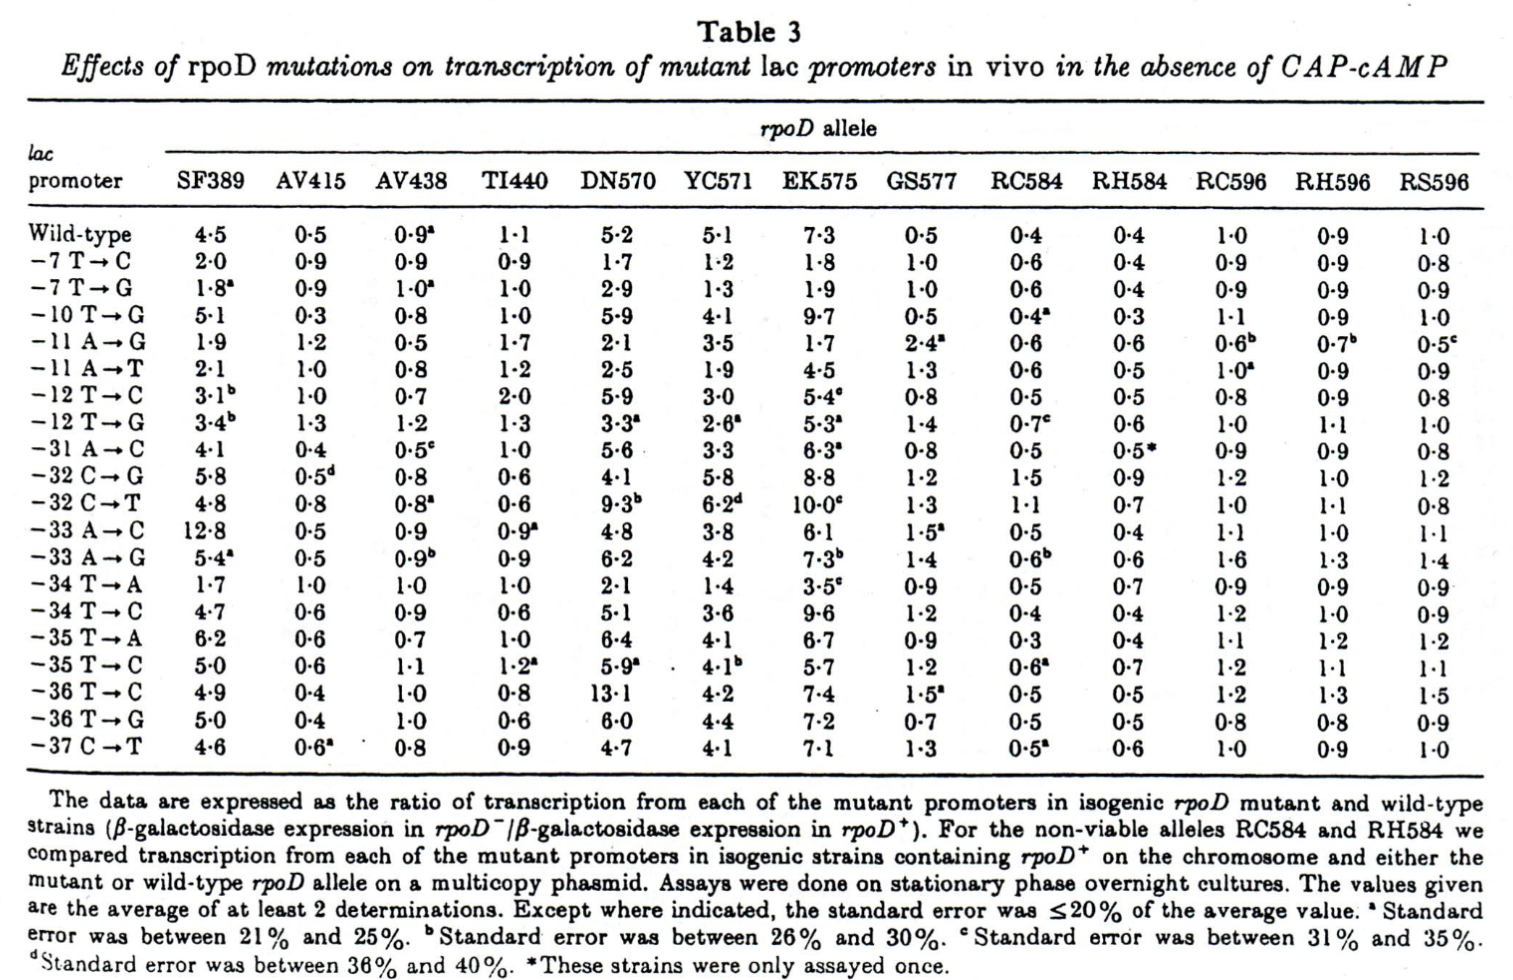
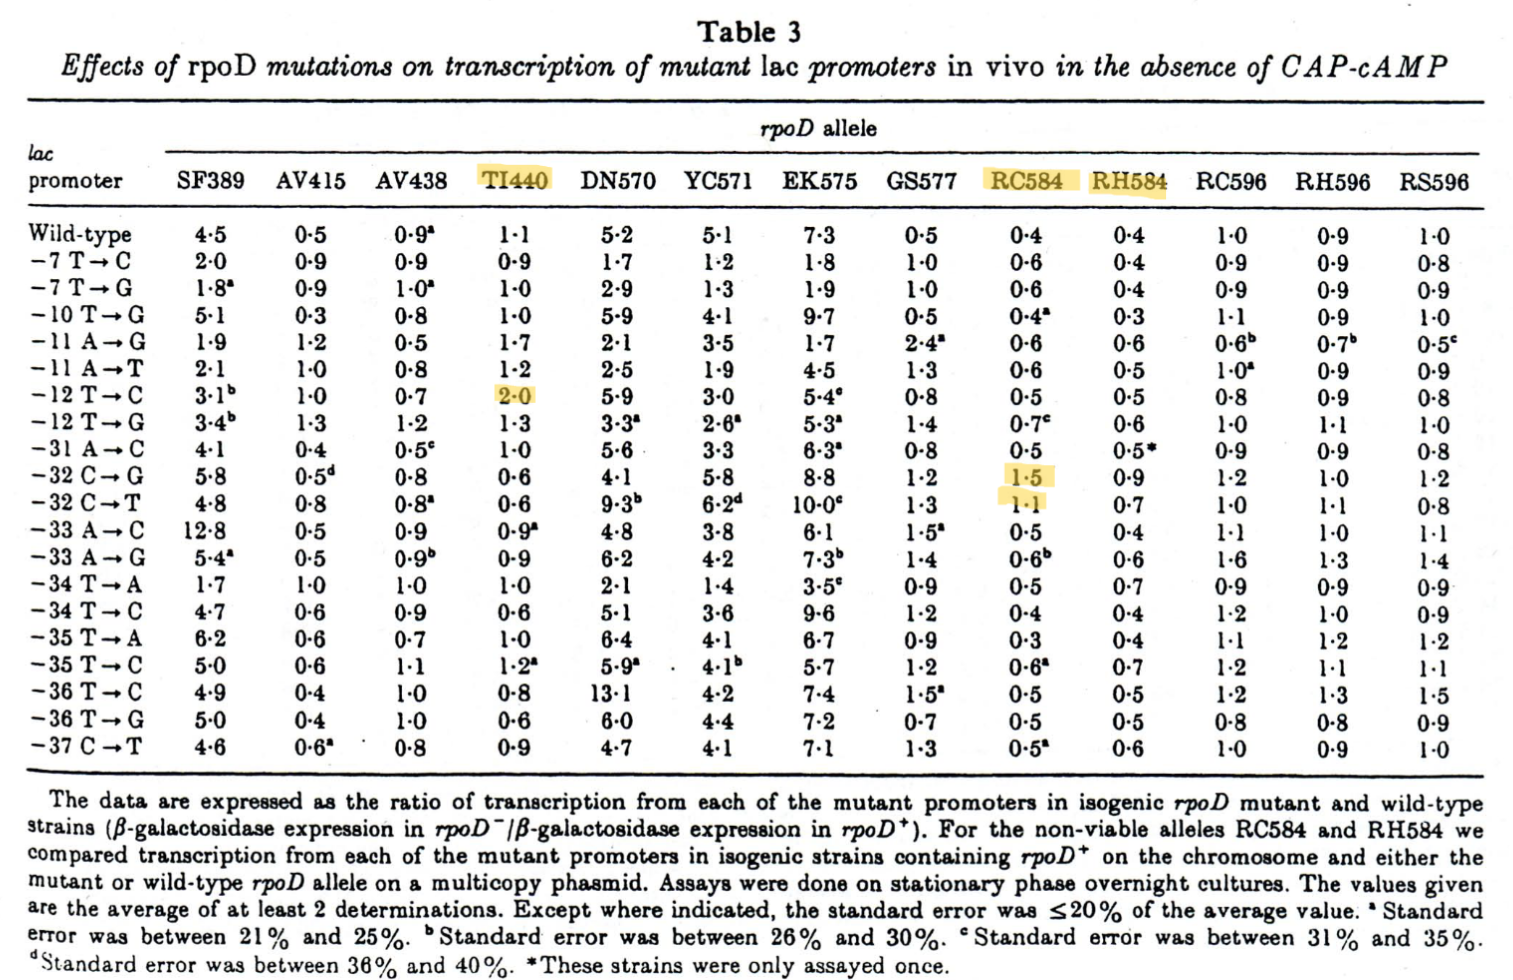
Auto saved by Logseq

diff --git a/pages/Altered promoter recognition by mutant forms of the sigma 70 subunit of Escherichia coli RNA polymerase.md b/pages/Altered promoter recognition by mutant forms of the sigma 70 subunit of Escherichia coli RNA polymerase.md
@@ -102,10 +102,16 @@ links:: [Local library](zotero://select/library/items/9G95AD5Q), [Web library](h
 	- All are ratios of mutant to wt (\beta\gal in rpoD- / \beta\gal in rpoD+)
 	- ![image.png](../assets/image_1759106691938_0.png){:height 490, :width 741}
 		- lac w/o cAMP
-		-
 	- ![image.png](../assets/image_1759106735549_0.png)
 		- lac w/ cAMP
 	- ![image.png](../assets/image_1759106753549_0.png)
 		- ant
-	-
+	- Mutations with little or no effect on promoter recognition
+		- AV438, RC596, RH596, RS596
+			- RH596 tom specifically calls out
+	- Mutations with moderate to large effects on recognition, broad positions
+		- SF389, AV415, DN570, YC571, EK575, GS577
+	- Mutations that suggest contacts with specific positions in the promoter
+		- RC584, RH584, TI440
+	- I kind of understand how they get this but some of it is a little lost to me
 -
